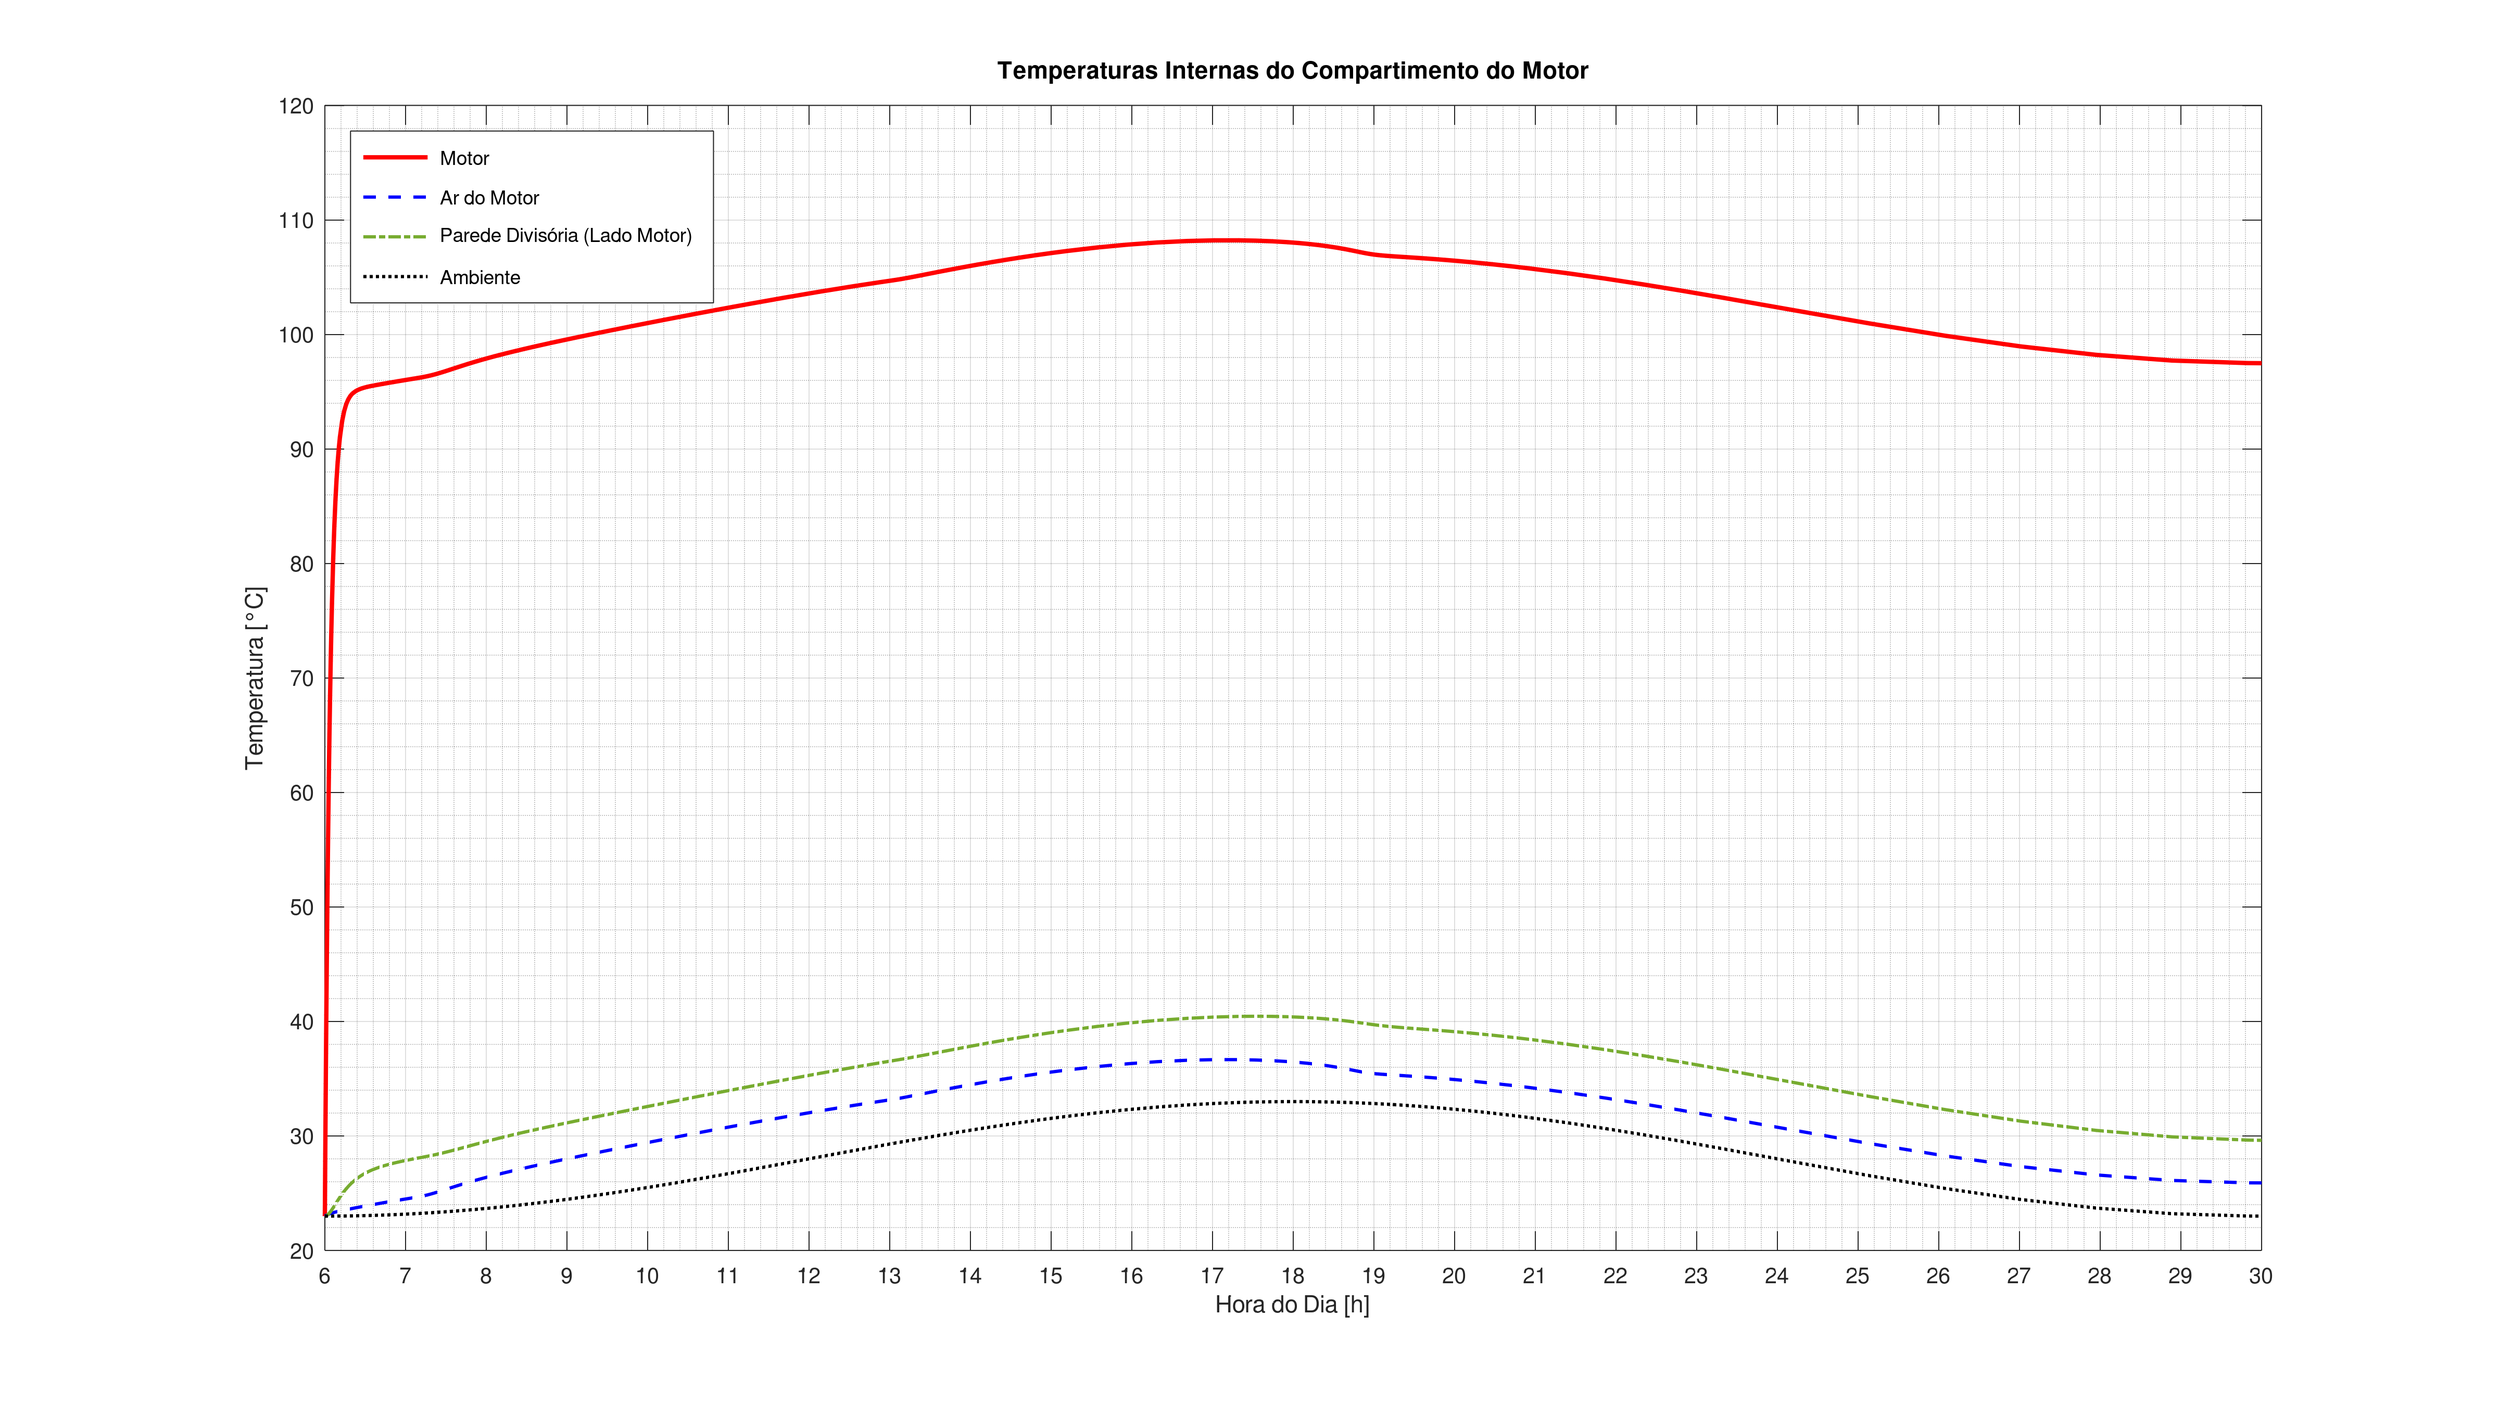
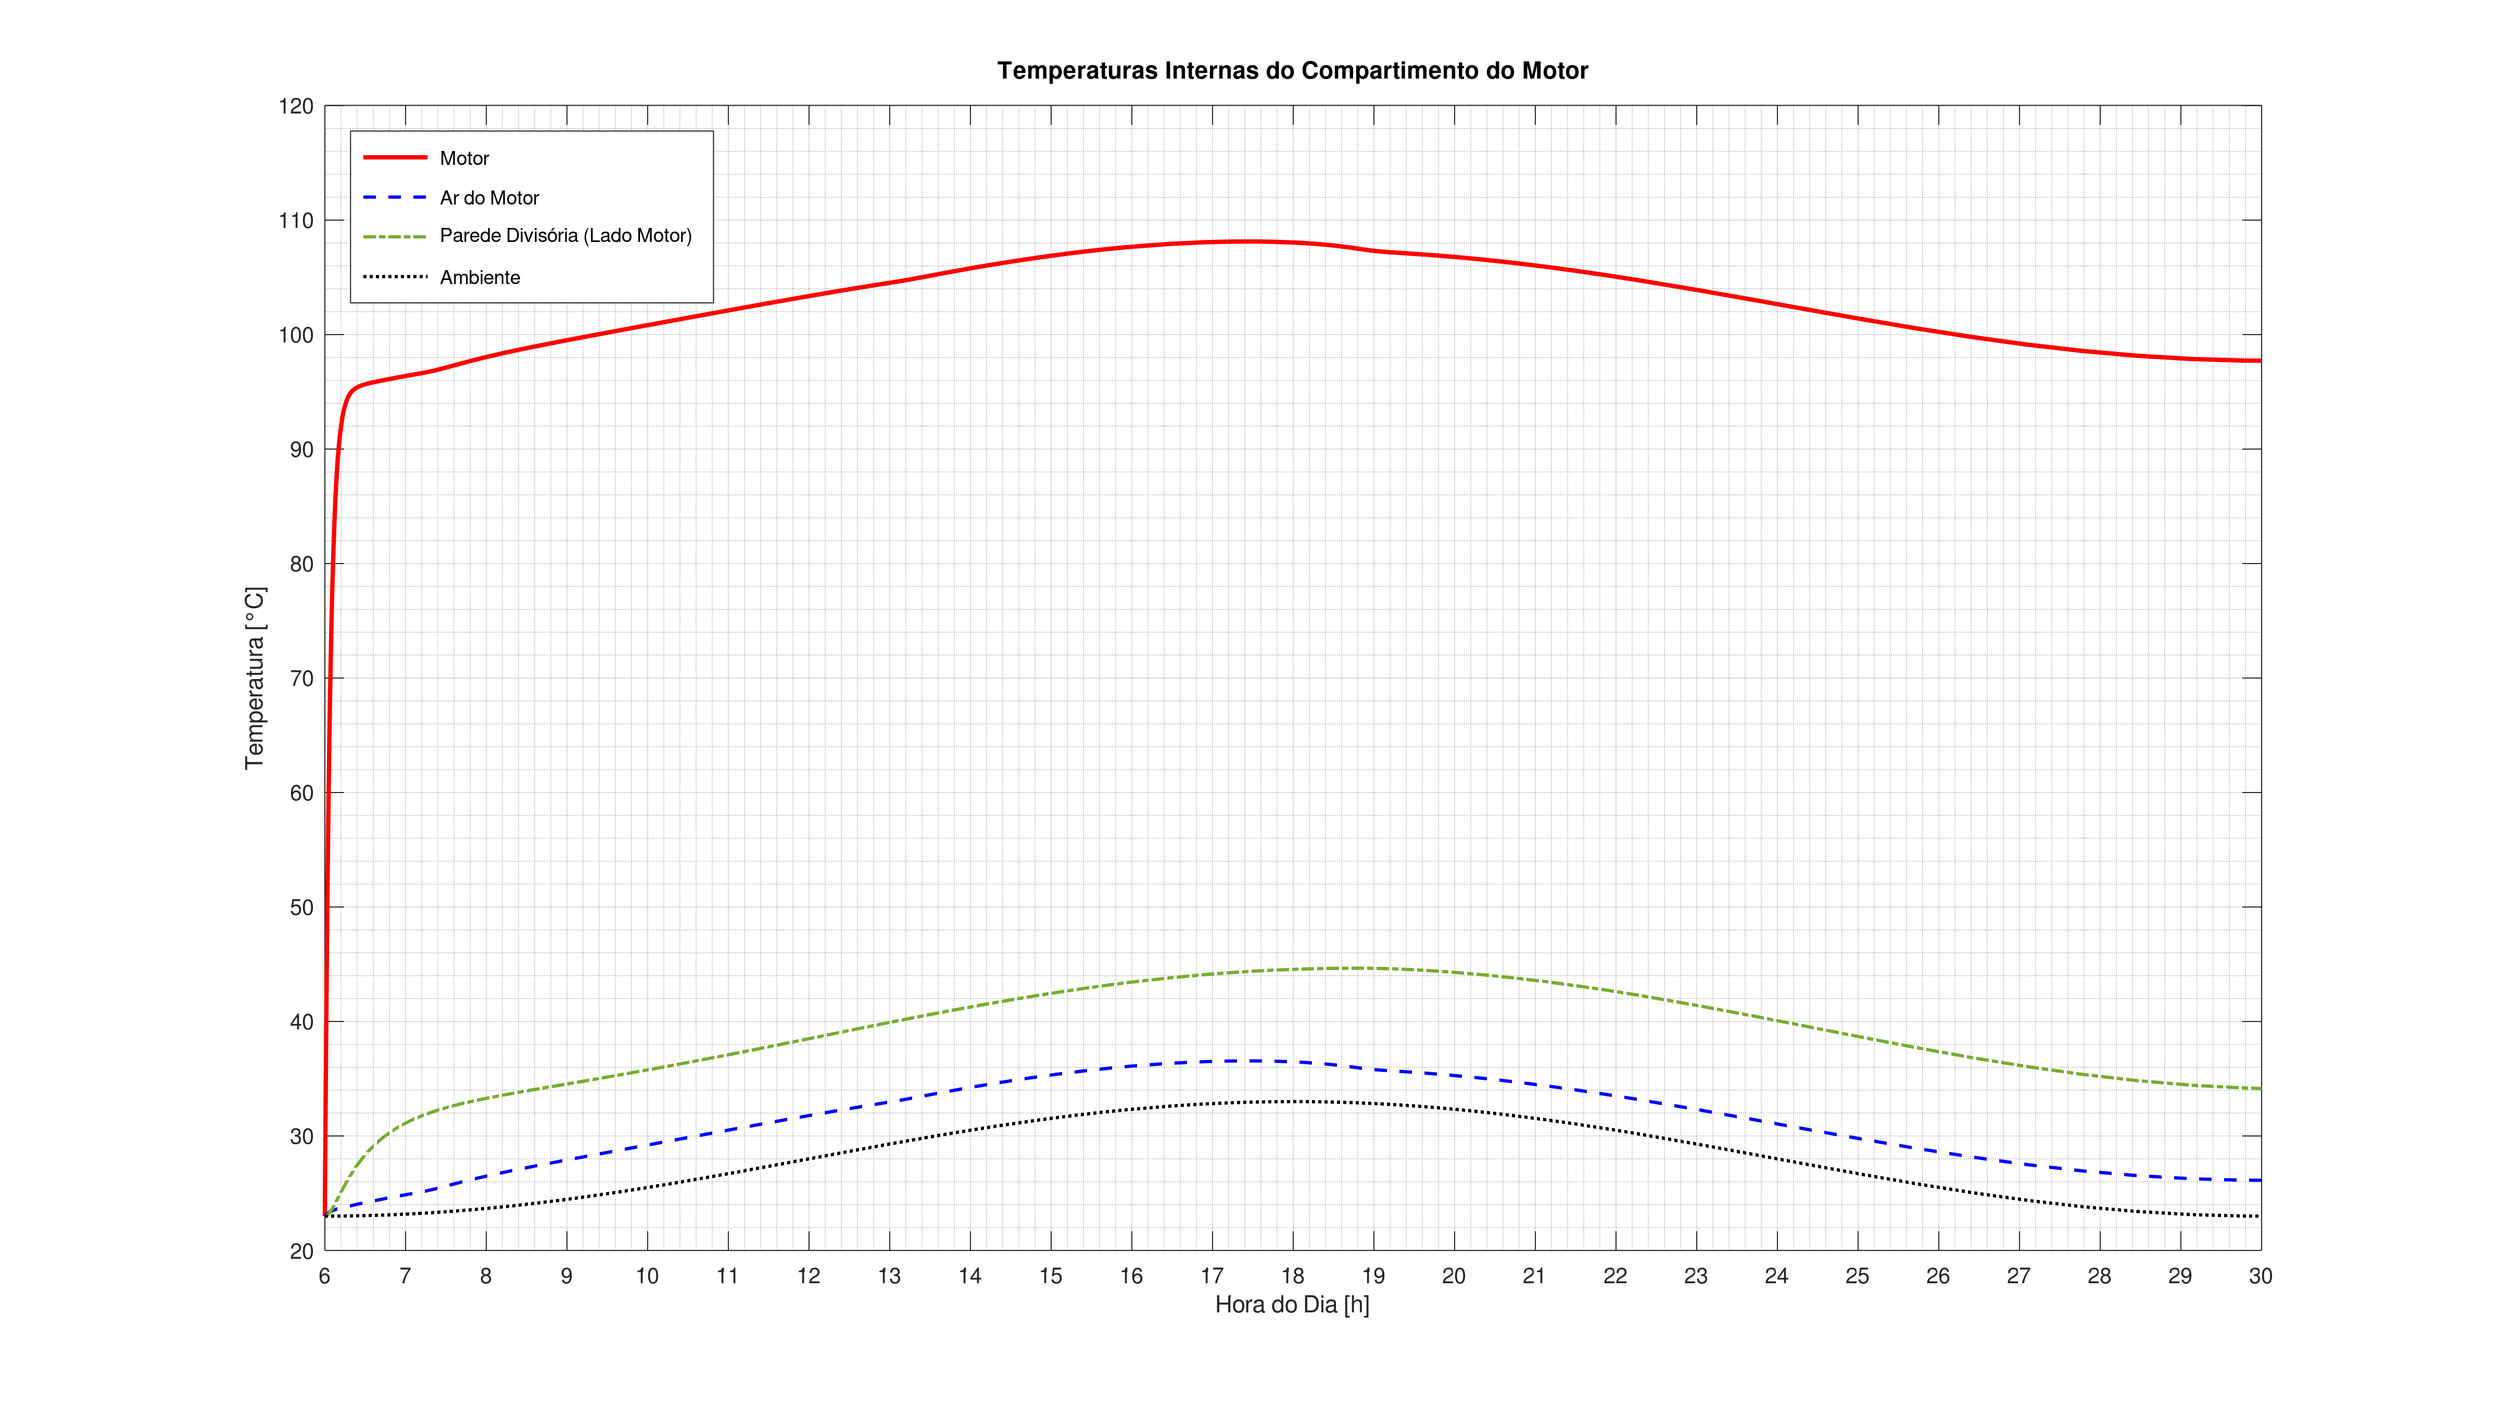
feat: adicionando calculo de convec para esferas, placas hor e ver

diff --git a/sistema_termico_total.m b/sistema_termico_total.m
@@ -18,43 +18,51 @@ function dYdt = sistema_termico_total(t, Y, p, Tinit_K)
     m_dot_ar_res_atual = p.m_dot_ar_res; if p.withExhaustorFail, m_dot_ar_res_atual = 2e-3; end
 
     % --- CÁLCULO DAS TROCAS DE CALOR ---
-    h_int = calc_h_convec(p.D_motor, 3, 0);
+    % Convecção Interna (Forçada, v=3m/s)
+    h_motor = calc_h_convec(p.D_motor, 3, 0, 'sphere', '');
+    h_gerador = calc_h_convec(p.D_gerador, 3, 0, 'sphere', '');
+    h_bateria = calc_h_convec(p.D_bateria, 3, 0, 'sphere', '');
+    h_int_placa = calc_h_convec(2.5, 3, 0, 'plate', '');
 
-    % Lado Motor
-    Q_radiador=UA_rad*(Tmotor-Tar_motor); Q_conv_motor_ar=h_int*p.A_motor*(Tmotor-Tar_motor); Q_vent_motor=p.m_dot_ar*p.cp_ar*(Tamb-Tar_motor);
+    % Convecção Externa (Natural, v=0)
+    L_parede_vert = 2.5;
+    L_teto_mot = p.A_parede_teto_motor / (2 * (2.5 + 2.5));
+    L_teto_res = p.A_parede_teto_res / (2 * (2.5 + 3.4));
+
+    h_ext_teto_mot = calc_h_convec(L_teto_mot, 0, Tparede_teto_motor - Tamb, 'plate', 'horizontal_up');
+    h_ext_leste_mot = calc_h_convec(L_parede_vert, 0, Tparede_leste_motor - Tamb, 'plate', 'vertical');
+    h_ext_oeste_mot = calc_h_convec(L_parede_vert, 0, Tparede_oeste_motor - Tamb, 'plate', 'vertical');
+    h_ext_sul_mot = calc_h_convec(L_parede_vert, 0, Tparede_sul_motor - Tamb, 'plate', 'vertical');
+    h_ext_norte_res = calc_h_convec(L_parede_vert, 0, Tparede_norte_res - Tamb, 'plate', 'vertical');
+    h_ext_leste_res = calc_h_convec(L_parede_vert, 0, Tparede_leste_res - Tamb, 'plate', 'vertical');
+    h_ext_oeste_res = calc_h_convec(L_parede_vert, 0, Tparede_oeste_res - Tamb, 'plate', 'vertical');
+    h_ext_teto_res = calc_h_convec(L_teto_res, 0, Tparede_teto_res - Tamb, 'plate', 'horizontal_up');
+
+    % Balanços de Calor (Resto do código permanece igual)
+    Q_radiador=UA_rad*(Tmotor-Tar_motor); Q_conv_motor_ar=h_motor*p.A_motor*(Tmotor-Tar_motor); Q_conv_gerador_ar=h_gerador*p.A_gerador*(Tgerador-Tar_motor); Q_conv_bateria_ar=h_bateria*p.A_bateria*(Tbateria-Tar_motor);
+    Q_vent_motor=p.m_dot_ar*p.cp_ar*(Tamb-Tar_motor);
     A_total_int=p.A_parede_leste_motor+p.A_parede_oeste_motor+p.A_parede_sul_motor+p.A_parede_teto_motor+p.A_parede_motor;
     T_sup_media_K4=(p.A_parede_leste_motor*Tparede_leste_motor^4+p.A_parede_oeste_motor*Tparede_oeste_motor^4+p.A_parede_sul_motor*Tparede_sul_motor^4+p.A_parede_teto_motor*Tparede_teto_motor^4+p.A_parede_motor*Tparede_motor_int^4)/A_total_int;
     Q_rad_total_motor=p.sigma*p.epsilon*p.A_motor*(Tmotor^4-T_sup_media_K4);
     Q_rad_para_leste_mot=Q_rad_total_motor*(p.A_parede_leste_motor/A_total_int); Q_rad_para_oeste_mot=Q_rad_total_motor*(p.A_parede_oeste_motor/A_total_int);
     Q_rad_para_sul_mot=Q_rad_total_motor*(p.A_parede_sul_motor/A_total_int); Q_rad_para_teto_mot=Q_rad_total_motor*(p.A_parede_teto_motor/A_total_int);
     Q_rad_para_divisoria=Q_rad_total_motor*(p.A_parede_motor/A_total_int);
-
-    % Lado Reservatório
     Q_cond_div = (p.A_div/(p.esp_larocha/p.k_larocha))*(Tparede_motor_int-Tparede_res_ext);
-    Q_conv_res_ar = h_int*p.A_res*(Treservatorio-Tar_res);
+    Q_conv_res_ar = h_int_placa*p.A_res*(Treservatorio-Tar_res);
     Q_saida_combustivel = m_dot_combustivel*p.cp_res*(Treservatorio-Tinit_K);
     Q_vent_res = m_dot_ar_res_atual*p.cp_ar_res*(Tamb-Tar_res);
-    Q_conv_parede_div_res_ar = h_int*p.A_parede_res*(Tparede_res_ext-Tar_res);
-
-    % Paredes Externas (Lado Motor)
-    h_ext = calc_h_convec(2.5,0,Tparede_teto_motor-Tamb); Q_conv_in_teto=h_int*p.A_parede_teto_motor*(Tar_motor-Tparede_teto_motor); Q_conv_out_teto=h_ext*p.A_parede_teto_motor*(Tparede_teto_motor-Tamb); Q_rad_out_teto=p.sigma*p.epsilon*p.A_parede_teto_motor*(Tparede_teto_motor^4-Tceu^4); Q_solar_teto=p.alpha*p.A_parede_teto_motor*G.teto;
-    h_ext = calc_h_convec(2.5,0,Tparede_leste_motor-Tamb); Q_conv_in_leste=h_int*p.A_parede_leste_motor*(Tar_motor-Tparede_leste_motor); Q_conv_out_leste=h_ext*p.A_parede_leste_motor*(Tparede_leste_motor-Tamb); Q_rad_out_leste=p.sigma*p.epsilon*p.A_parede_leste_motor*(Tparede_leste_motor^4-Tceu^4); Q_solar_leste=p.alpha*p.A_parede_leste_motor*G.leste;
-    h_ext = calc_h_convec(2.5,0,Tparede_oeste_motor-Tamb); Q_conv_in_oeste=h_int*p.A_parede_oeste_motor*(Tar_motor-Tparede_oeste_motor); Q_conv_out_oeste=h_ext*p.A_parede_oeste_motor*(Tparede_oeste_motor-Tamb); Q_rad_out_oeste=p.sigma*p.epsilon*p.A_parede_oeste_motor*(Tparede_oeste_motor^4-Tceu^4); Q_solar_oeste=p.alpha*p.A_parede_oeste_motor*G.oeste;
-    h_ext = calc_h_convec(2.5,0,Tparede_sul_motor-Tamb); Q_conv_in_sul=h_int*p.A_parede_sul_motor*(Tar_motor-Tparede_sul_motor); Q_conv_out_sul=h_ext*p.A_parede_sul_motor*(Tparede_sul_motor-Tamb); Q_rad_out_sul=p.sigma*p.epsilon*p.A_parede_sul_motor*(Tparede_sul_motor^4-Tceu^4); Q_solar_sul=p.alpha*p.A_parede_sul_motor*G.sul;
-
-    % Paredes Externas (Lado Reservatório)
-    h_ext = calc_h_convec(2.5,0,Tparede_norte_res-Tamb); Q_conv_in_norte_res=h_int*p.A_parede_norte_res*(Tar_res-Tparede_norte_res); Q_conv_out_norte_res=h_ext*p.A_parede_norte_res*(Tparede_norte_res-Tamb); Q_rad_out_norte_res=p.sigma*p.epsilon*p.A_parede_norte_res*(Tparede_norte_res^4-Tceu^4); Q_solar_norte_res=p.alpha*p.A_parede_norte_res*G.norte;
-    h_ext = calc_h_convec(2.5,0,Tparede_leste_res-Tamb); Q_conv_in_leste_res=h_int*p.A_parede_leste_res*(Tar_res-Tparede_leste_res); Q_conv_out_leste_res=h_ext*p.A_parede_leste_res*(Tparede_leste_res-Tamb); Q_rad_out_leste_res=p.sigma*p.epsilon*p.A_parede_leste_res*(Tparede_leste_res^4-Tceu^4); Q_solar_leste_res=p.alpha*p.A_parede_leste_res*G.leste;
-    h_ext = calc_h_convec(2.5,0,Tparede_oeste_res-Tamb); Q_conv_in_oeste_res=h_int*p.A_parede_oeste_res*(Tar_res-Tparede_oeste_res); Q_conv_out_oeste_res=h_ext*p.A_parede_oeste_res*(Tparede_oeste_res-Tamb); Q_rad_out_oeste_res=p.sigma*p.epsilon*p.A_parede_oeste_res*(Tparede_oeste_res^4-Tceu^4); Q_solar_oeste_res=p.alpha*p.A_parede_oeste_res*G.oeste;
-    h_ext = calc_h_convec(2.5,0,Tparede_teto_res-Tamb); Q_conv_in_teto_res=h_int*p.A_parede_teto_res*(Tar_res-Tparede_teto_res); Q_conv_out_teto_res=h_ext*p.A_parede_teto_res*(Tparede_teto_res-Tamb); Q_rad_out_teto_res=p.sigma*p.epsilon*p.A_parede_teto_res*(Tparede_teto_res^4-Tceu^4); Q_solar_teto_res=p.alpha*p.A_parede_teto_res*G.teto;
-
-    % Perdas para o solo
-    R_conv_chao_mot=1/(h_int*p.A_base_motor); R_cond_chao_mot=1/(p.S_motor*p.k_solo); Q_chao_motor=(Tar_motor-p.Tinf)/(R_conv_chao_mot+R_cond_chao_mot);
-    R_conv_chao_res=1/(h_int*p.A_base_res); R_cond_chao_res=1/(p.S_res*p.k_solo); Q_chao_res=(Tar_res-p.Tinf)/(R_conv_chao_res+R_cond_chao_res);
-
-    % Outros
-    Q_conv_gerador_ar=h_int*p.A_gerador*(Tgerador-Tar_motor); Q_conv_bateria_ar=h_int*p.A_bateria*(Tbateria-Tar_motor);
-    Q_conv_ar_parede_div_motor=h_int*p.A_parede_motor*(Tar_motor-Tparede_motor_int);
+    Q_conv_parede_div_res_ar = h_int_placa*p.A_parede_res*(Tparede_res_ext-Tar_res);
+    Q_conv_in_teto = h_int_placa*p.A_parede_teto_motor*(Tar_motor-Tparede_teto_motor); Q_conv_out_teto=h_ext_teto_mot*p.A_parede_teto_motor*(Tparede_teto_motor-Tamb); Q_rad_out_teto=p.sigma*p.epsilon*p.A_parede_teto_motor*(Tparede_teto_motor^4-Tceu^4); Q_solar_teto=p.alpha*p.A_parede_teto_motor*G.teto;
+    Q_conv_in_leste=h_int_placa*p.A_parede_leste_motor*(Tar_motor-Tparede_leste_motor); Q_conv_out_leste=h_ext_leste_mot*p.A_parede_leste_motor*(Tparede_leste_motor-Tamb); Q_rad_out_leste=p.sigma*p.epsilon*p.A_parede_leste_motor*(Tparede_leste_motor^4-Tceu^4); Q_solar_leste=p.alpha*p.A_parede_leste_motor*G.leste;
+    Q_conv_in_oeste=h_int_placa*p.A_parede_oeste_motor*(Tar_motor-Tparede_oeste_motor); Q_conv_out_oeste=h_ext_oeste_mot*p.A_parede_oeste_motor*(Tparede_oeste_motor-Tamb); Q_rad_out_oeste=p.sigma*p.epsilon*p.A_parede_oeste_motor*(Tparede_oeste_motor^4-Tceu^4); Q_solar_oeste=p.alpha*p.A_parede_oeste_motor*G.oeste;
+    Q_conv_in_sul=h_int_placa*p.A_parede_sul_motor*(Tar_motor-Tparede_sul_motor); Q_conv_out_sul=h_ext_sul_mot*p.A_parede_sul_motor*(Tparede_sul_motor-Tamb); Q_rad_out_sul=p.sigma*p.epsilon*p.A_parede_sul_motor*(Tparede_sul_motor^4-Tceu^4); Q_solar_sul=p.alpha*p.A_parede_sul_motor*G.sul;
+    Q_conv_in_norte_res=h_int_placa*p.A_parede_norte_res*(Tar_res-Tparede_norte_res); Q_conv_out_norte_res=h_ext_norte_res*p.A_parede_norte_res*(Tparede_norte_res-Tamb); Q_rad_out_norte_res=p.sigma*p.epsilon*p.A_parede_norte_res*(Tparede_norte_res^4-Tceu^4); Q_solar_norte_res=p.alpha*p.A_parede_norte_res*G.norte;
+    Q_conv_in_leste_res=h_int_placa*p.A_parede_leste_res*(Tar_res-Tparede_leste_res); Q_conv_out_leste_res=h_ext_leste_res*p.A_parede_leste_res*(Tparede_leste_res-Tamb); Q_rad_out_leste_res=p.sigma*p.epsilon*p.A_parede_leste_res*(Tparede_leste_res^4-Tceu^4); Q_solar_leste_res=p.alpha*p.A_parede_leste_res*G.leste;
+    Q_conv_in_oeste_res=h_int_placa*p.A_parede_oeste_res*(Tar_res-Tparede_oeste_res); Q_conv_out_oeste_res=h_ext_oeste_res*p.A_parede_oeste_res*(Tparede_oeste_res-Tamb); Q_rad_out_oeste_res=p.sigma*p.epsilon*p.A_parede_oeste_res*(Tparede_oeste_res^4-Tceu^4); Q_solar_oeste_res=p.alpha*p.A_parede_oeste_res*G.oeste;
+    Q_conv_in_teto_res=h_int_placa*p.A_parede_teto_res*(Tar_res-Tparede_teto_res); Q_conv_out_teto_res=h_ext_teto_res*p.A_parede_teto_res*(Tparede_teto_res-Tamb); Q_rad_out_teto_res=p.sigma*p.epsilon*p.A_parede_teto_res*(Tparede_teto_res^4-Tceu^4); Q_solar_teto_res=p.alpha*p.A_parede_teto_res*G.teto;
+    R_conv_chao_mot=1/(h_int_placa*p.A_base_motor); R_cond_chao_mot=1/(p.S_motor*p.k_solo); Q_chao_motor=(Tar_motor-p.Tinf)/(R_conv_chao_mot+R_cond_chao_mot);
+    R_conv_chao_res=1/(h_int_placa*p.A_base_res); R_cond_chao_res=1/(p.S_res*p.k_solo); Q_chao_res=(Tar_res-p.Tinf)/(R_conv_chao_res+R_cond_chao_res);
+    Q_conv_ar_parede_div_motor=h_int_placa*p.A_parede_motor*(Tar_motor-Tparede_motor_int);
 
     % --- EQUAÇÕES DIFERENCIAIS ---
     dm_res_dt = -m_dot_combustivel;

diff --git a/utils/calc_h_convec.m b/utils/calc_h_convec.m
@@ -1,37 +1,51 @@
-function h = calc_h_convec(D, vel, DeltaT_surface_air)
-    % === calc_h_convec.m (Versão com DeltaT Dinâmico) ===
-    % Calcula o coeficiente de transferência de calor convectivo.
-    % Inputs:
-    %   D                - Diâmetro característico [m]
-    %   vel              - Velocidade do fluido [m/s]
-    %   DeltaT_surface_air - Diferença de temperatura Superfície-Ar [K]
-    %                        (usado apenas para convecção natural).
-    % Output:
-    %   h - Coeficiente convectivo [W/m².K]
-
+function h = calc_h_convec(D, vel, DeltaT_surface_air, geometry, orientation)
     % Propriedades do ar (aproximadas para 300K)
-    k_ar = 0.0263;   % Condutividade térmica do ar [W/m.K]
-    nu_ar = 1.589e-5;% Viscosidade cinemática do ar [m²/s]
+    k_ar = 0.0263;   % Condutividade térmica [W/m.K]
+    nu_ar = 1.589e-5;% Viscosidade cinemática [m²/s]
     Pr = 0.707;      % Número de Prandtl
     beta = 1/300;    % Coeficiente de expansão térmica [1/K]
     g = 9.81;        % Aceleração gravitacional [m/s²]
 
-    if vel > 0.1 % Convecção Forçada
+    if vel > 0.1 % --- CONVECÇÃO FORÇADA ---
         Re = vel * D / nu_ar;
-        % Correlação de Churchill e Bernstein para cilindro em fluxo cruzado
-        Nu = 0.3 + (0.62 * Re^0.5 * Pr^(1/3)) / (1 + (0.4/Pr)^(2/3))^0.25 * ...
-             (1 + (Re/282000)^(5/8))^(4/5);
-    else % Convecção Natural
-        % Garante que DeltaT seja pelo menos um valor pequeno e positivo.
+        if strcmp(geometry, 'sphere')
+            Nu = 2 + (0.4 * Re^0.5 + 0.06 * Re^(2/3)) * Pr^0.4;
+        elseif strcmp(geometry, 'plate')
+            Nu = 0.664 * Re^0.5 * Pr^(1/3); % Fluxo laminar
+        else
+            error('Geometria desconhecida para convecção forçada: %s', geometry);
+        end
+
+    else % --- CONVECÇÃO NATURAL ---
         DeltaT = max(1e-6, abs(DeltaT_surface_air));
+        Ra = (g * beta * DeltaT * D^3 / nu_ar^2) * Pr;
 
-        % Número de Grashof
-        Gr = g * beta * DeltaT * D^3 / nu_ar^2;
-        % Número de Rayleigh
-        Ra = Gr * Pr;
+        if strcmp(geometry, 'sphere')
+            Nu = 2 + (0.589 * Ra^(1/4)) / (1 + (0.469 / Pr)^(9/16))^(4/9);
 
-        % Correlação de Churchill e Chu para placa vertical/cilindro
-        Nu = (0.6 + (0.387 * Ra^(1/6)) / (1 + (0.559/Pr)^(9/16))^(8/27))^2;
+        elseif strcmp(geometry, 'plate')
+            % --- Lógica Explícita para Orientação da Placa ---
+            switch orientation
+                case 'vertical'
+                    % Correlação de Churchill e Chu para placa vertical
+                    Nu = (0.825 + (0.387 * Ra^(1/6)) / (1 + (0.492 / Pr)^(9/16))^(8/27))^2;
+
+                case 'horizontal_up'
+                    if Ra > 1e7 && Ra < 1e11
+                        Nu = 0.15 * Ra^(1/3); % Turbulento
+                    else
+                        Nu = 0.54 * Ra^(1/4); % Laminar
+                    end
+
+                case 'horizontal_down'
+                    Nu = 0.27 * Ra^(1/4);
+
+                otherwise
+                    error('Orientação de placa desconhecida para convecção natural: %s', orientation);
+            end
+        else
+            error('Geometria desconhecida para convecção natural: %s', geometry);
+        end
     end
 
     % Calcula o coeficiente convectivo a partir do Nusselt
